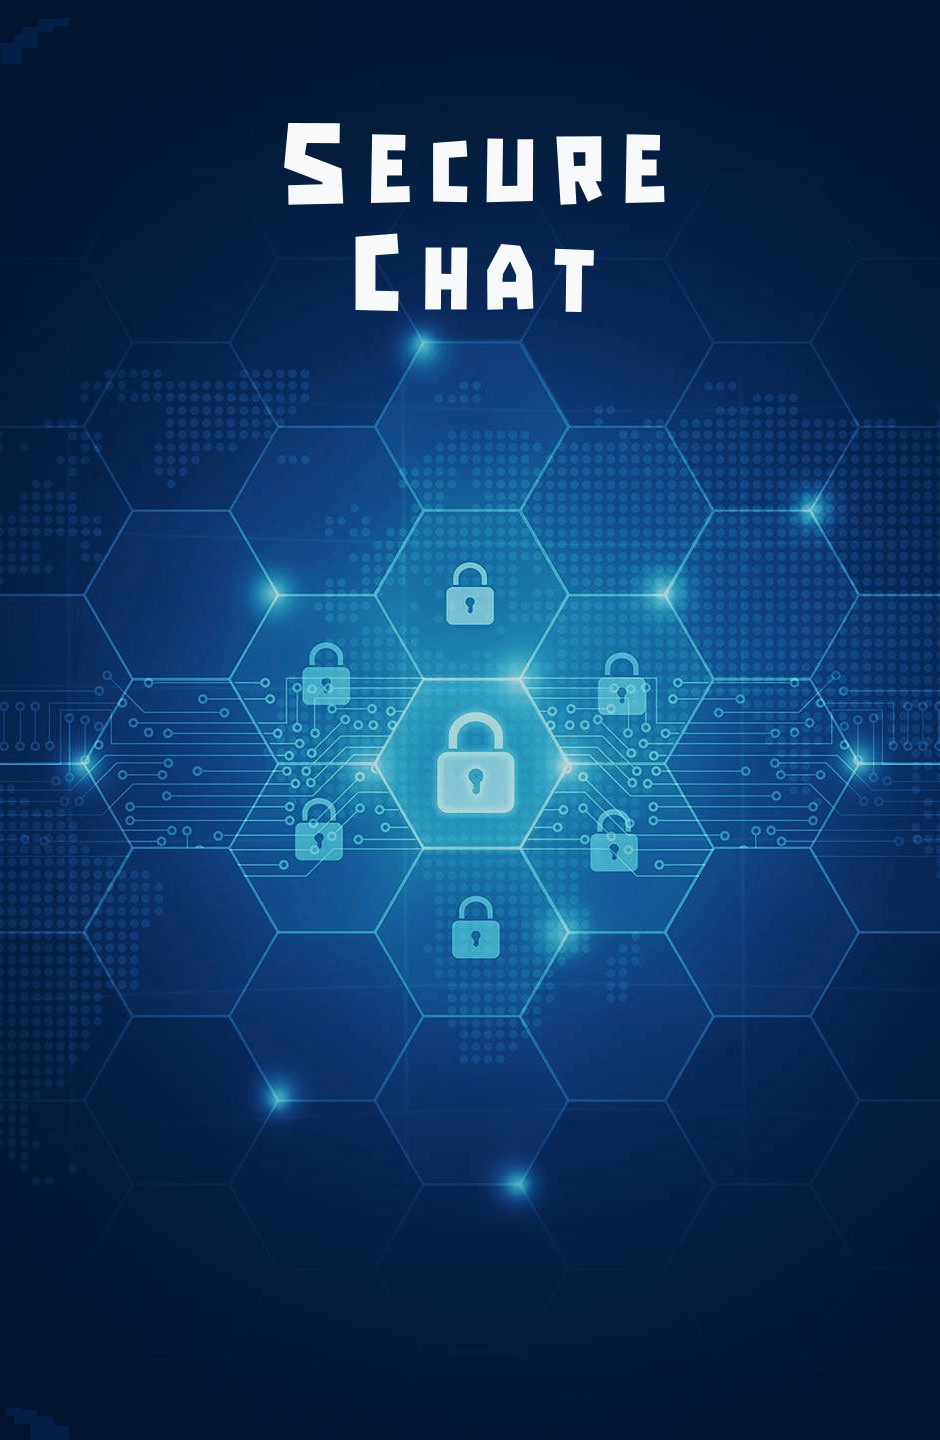
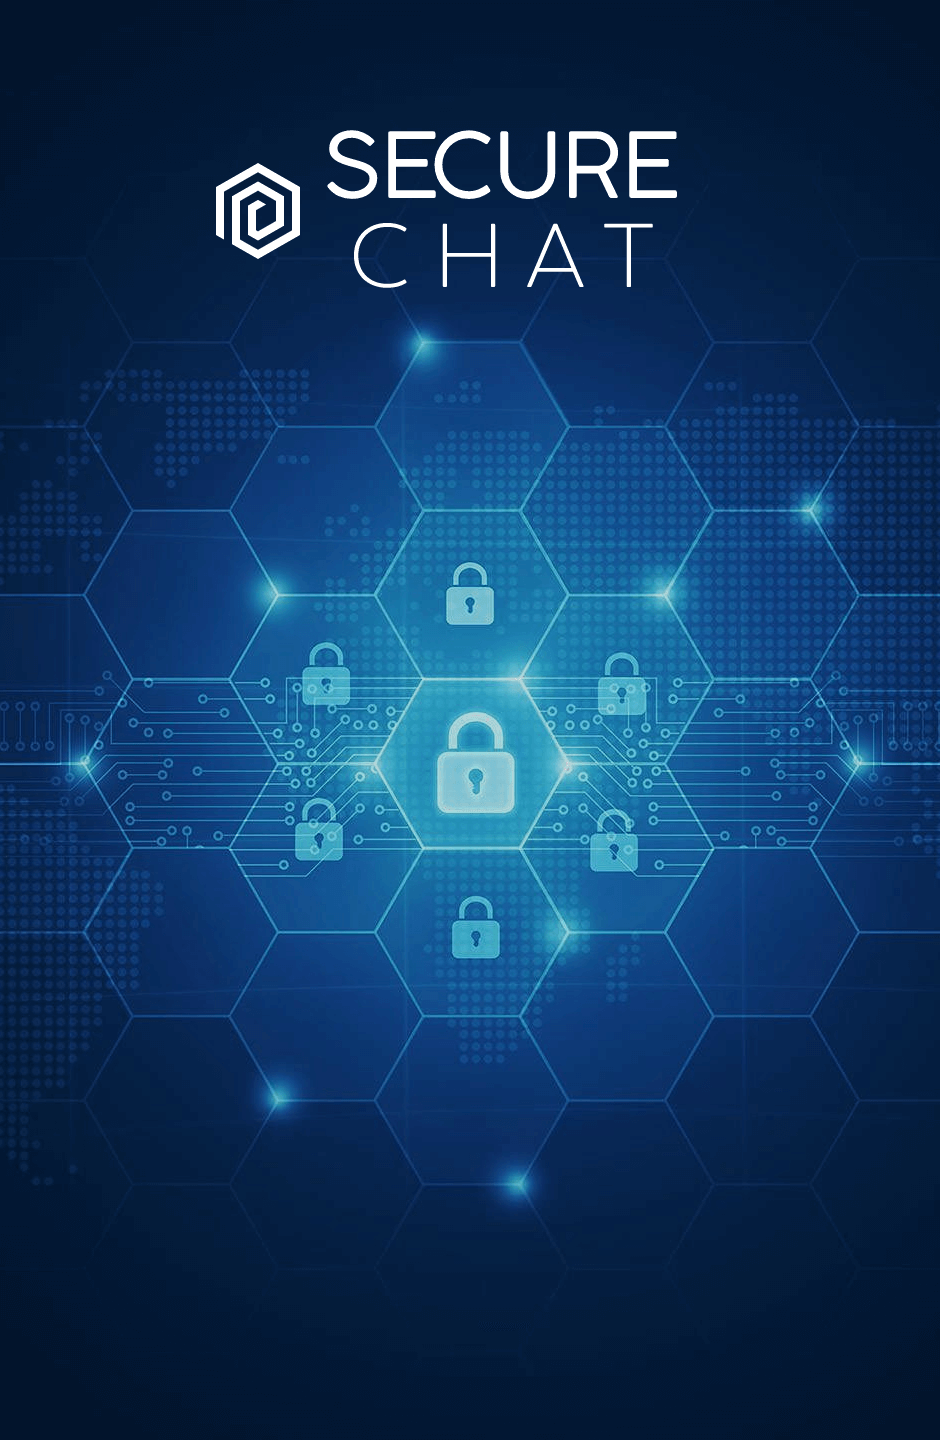
update splash, change password

Changed region(s): [[0.216, 0.0625, 0.7096, 0.2188], [0.0, 0.9688, 0.0926, 1.0], [0.0, 0.0, 0.0617, 0.0625]]

diff --git a/screens/menu/ChangePassword.tsx b/screens/menu/ChangePassword.tsx
@@ -1,8 +1,8 @@
 import React, { useState } from 'react';
-import { ScrollView, View, StyleSheet, ImageBackground, Image, Platform, Alert } from 'react-native';
-import { Text, HeaderBar, PaddingView, TouchableOpacity, TextInput, RadioButton } from '../../components';
-import { colors } from '../../constants';
+import { View, StyleSheet, Alert, TextInput } from 'react-native';
+import { Text, HeaderBar, PaddingView, Button, TouchableOpacity } from '../../components';
 import { FontAwesome5 } from '@expo/vector-icons';
+import { colors } from '../../constants';
 import { rest } from '../../config';
 import { callApi } from '../../utils';
 
@@ -39,26 +39,42 @@ const ChangePassword: React.FC<Props> = (props) => {
     else navigation.goBack();
   };
 
-  return (
-    <View style={{ backgroundColor: colors.white }}>
-      <HeaderBar navigation={navigation} title="Đổi mật khẩu" isBack />
-      <PaddingView>
-        <Text>Mật khẩu mới</Text>
+  const renderInput = (name: 'current' | 'new' | 'confirm', placeholder: string) => {
+    return (
+      <View style={styles.inputWrapper}>
         <TextInput
-          placeholder="Mật khẩu hiện tại"
-          onChangeText={(value) => setPassword({ ...password, current: { ...password.current, value } })}
+          secureTextEntry={!password[name].show}
+          style={styles.input}
+          placeholder={placeholder}
+          onChangeText={(value) => {
+            let newPassword = { ...password };
+            newPassword[name].value = value;
+            setPassword(newPassword);
+          }}
         />
-        <TextInput
-          placeholder="Mật khẩu mới"
-          onChangeText={(value) => setPassword({ ...password, new: { ...password.new, value } })}
-        />
-        <TextInput
-          placeholder="Nhập lại mật khẩu mới"
-          onChangeText={(value) => setPassword({ ...password, confirm: { ...password.confirm, value } })}
-        />
-        <TouchableOpacity onPress={changePassword}>
-          <Text>Đổi mật khẩu</Text>
+        <TouchableOpacity
+          style={{ width: 24, alignItems: 'center' }}
+          onPress={() => {
+            let newPassword = { ...password };
+            newPassword[name].show = !newPassword[name].show;
+            setPassword(newPassword);
+          }}>
+          <FontAwesome5 name={password[name].show ? 'eye-slash' : 'eye'} size={14} color={colors.secondary} />
         </TouchableOpacity>
+      </View>
+    );
+  };
+
+  return (
+    <View style={{ backgroundColor: colors.white, flex: 1 }}>
+      <HeaderBar navigation={navigation} title="Đổi mật khẩu" isBack />
+      <PaddingView style={{ marginHorizontal: 10 }}>
+        <Text style={styles.title}>Mật khẩu mới</Text>
+        <Text style={styles.info}>Mật khẩu mới có thể bao gồm ký tự viết thường, hoa, số và ký tự đặc biệt</Text>
+        {renderInput('current', 'Mật khẩu hiện tại')}
+        {renderInput('new', 'Mật khẩu mới')}
+        {renderInput('confirm', 'Nhập lại mật khẩu mới')}
+        <Button style={styles.submit} onPress={changePassword} label="Đổi mật khẩu" />
       </PaddingView>
     </View>
   );
@@ -73,5 +89,40 @@ const styles = StyleSheet.create({
   center: {
     alignItems: 'center',
     marginVertical: 12,
+  },
+  title: {
+    fontSize: 28,
+    textAlign: 'center',
+    marginTop: 14,
+  },
+  info: {
+    textAlign: 'center',
+    marginVertical: 18,
+    fontSize: 16,
+  },
+  inputBorder: {
+    marginVertical: 10,
+    paddingVertical: 8,
+    borderStyle: 'solid',
+    borderBottomColor: colors.light,
+    borderBottomWidth: 1,
+    flexDirection: 'row',
+    alignItems: 'center',
+  },
+  inputWrapper: {
+    marginVertical: 10,
+    paddingVertical: 8,
+    borderStyle: 'solid',
+    borderBottomColor: colors.light,
+    borderBottomWidth: 1,
+    flexDirection: 'row',
+    alignItems: 'center',
+  },
+  input: {
+    flex: 1,
+    fontFamily: 'Bold',
+  },
+  submit: {
+    marginVertical: 24,
   },
 });

diff --git a/components/Button.tsx b/components/Button.tsx
@@ -1,14 +1,21 @@
 import React from 'react';
-import { TouchableOpacity, StyleSheet } from 'react-native';
+import { StyleSheet, ViewStyle } from 'react-native';
+import { colors } from '../constants';
+import Text from './Text';
+import TouchableOpacity from './TouchableOpacity';
 
 interface Props {
-  style?: any;
+  style?: ViewStyle;
+  onPress?: any;
+  icon?: string;
+  label?: string;
 }
 
 const MyButton: React.FC<Props> = (props) => {
+  const { style, onPress, icon, label } = props;
   return (
-    <TouchableOpacity {...props} style={[styles.text, props.style]}>
-      {props.children}
+    <TouchableOpacity onPress={onPress} style={[styles.wrapper, style]}>
+      <Text style={styles.text}>{label}</Text>
     </TouchableOpacity>
   );
 };
@@ -16,8 +23,17 @@ const MyButton: React.FC<Props> = (props) => {
 export default MyButton;
 
 const styles = StyleSheet.create({
+  wrapper: {
+    backgroundColor: colors.primary,
+    paddingVertical: 14,
+    width: '100%',
+    borderRadius: 50,
+    flexDirection: 'row',
+    justifyContent: 'center',
+  },
   text: {
     fontFamily: 'Bold',
-    color: '#333',
+    color: colors.light2,
+    fontSize: 15,
   },
 });

diff --git a/navigation/BottomNavigator.tsx b/navigation/BottomNavigator.tsx
@@ -88,10 +88,7 @@ const BottomNavigator = () => {
 
   return (
     <NavigationContainer>
-      <Tab.Navigator
-        // initialRouteName="GroupTab"
-        tabBar={TabBar}
-        lazy={false}>
+      <Tab.Navigator tabBar={TabBar} lazy={false}>
         <Tab.Screen
           name="MessengerTab"
           component={Messenger}

diff --git a/screens/menu/Menu.tsx b/screens/menu/Menu.tsx
@@ -69,6 +69,7 @@ const Menu: React.FC<Props> = (props) => {
 const MenuStack: React.FC = () => {
   return (
     <Stack.Navigator
+      // initialRouteName="ChangePassword"
       screenOptions={{
         headerShown: false,
       }}>

diff --git a/README.md b/README.md
@@ -21,7 +21,7 @@
 - [ ] Insert friend, Leave, notification: friend have been join, leave this chat
 - [X] Update profile, avatar, password
 - [ ] Forgot password
-- [ ] Find friend by distance < X km
+- [ ] Find friend by distance less than X km
 - [X] Find friend by name, id, QRCode
 - [ ] Tool for manage notes
 - [ ] Tool for manage passwords
